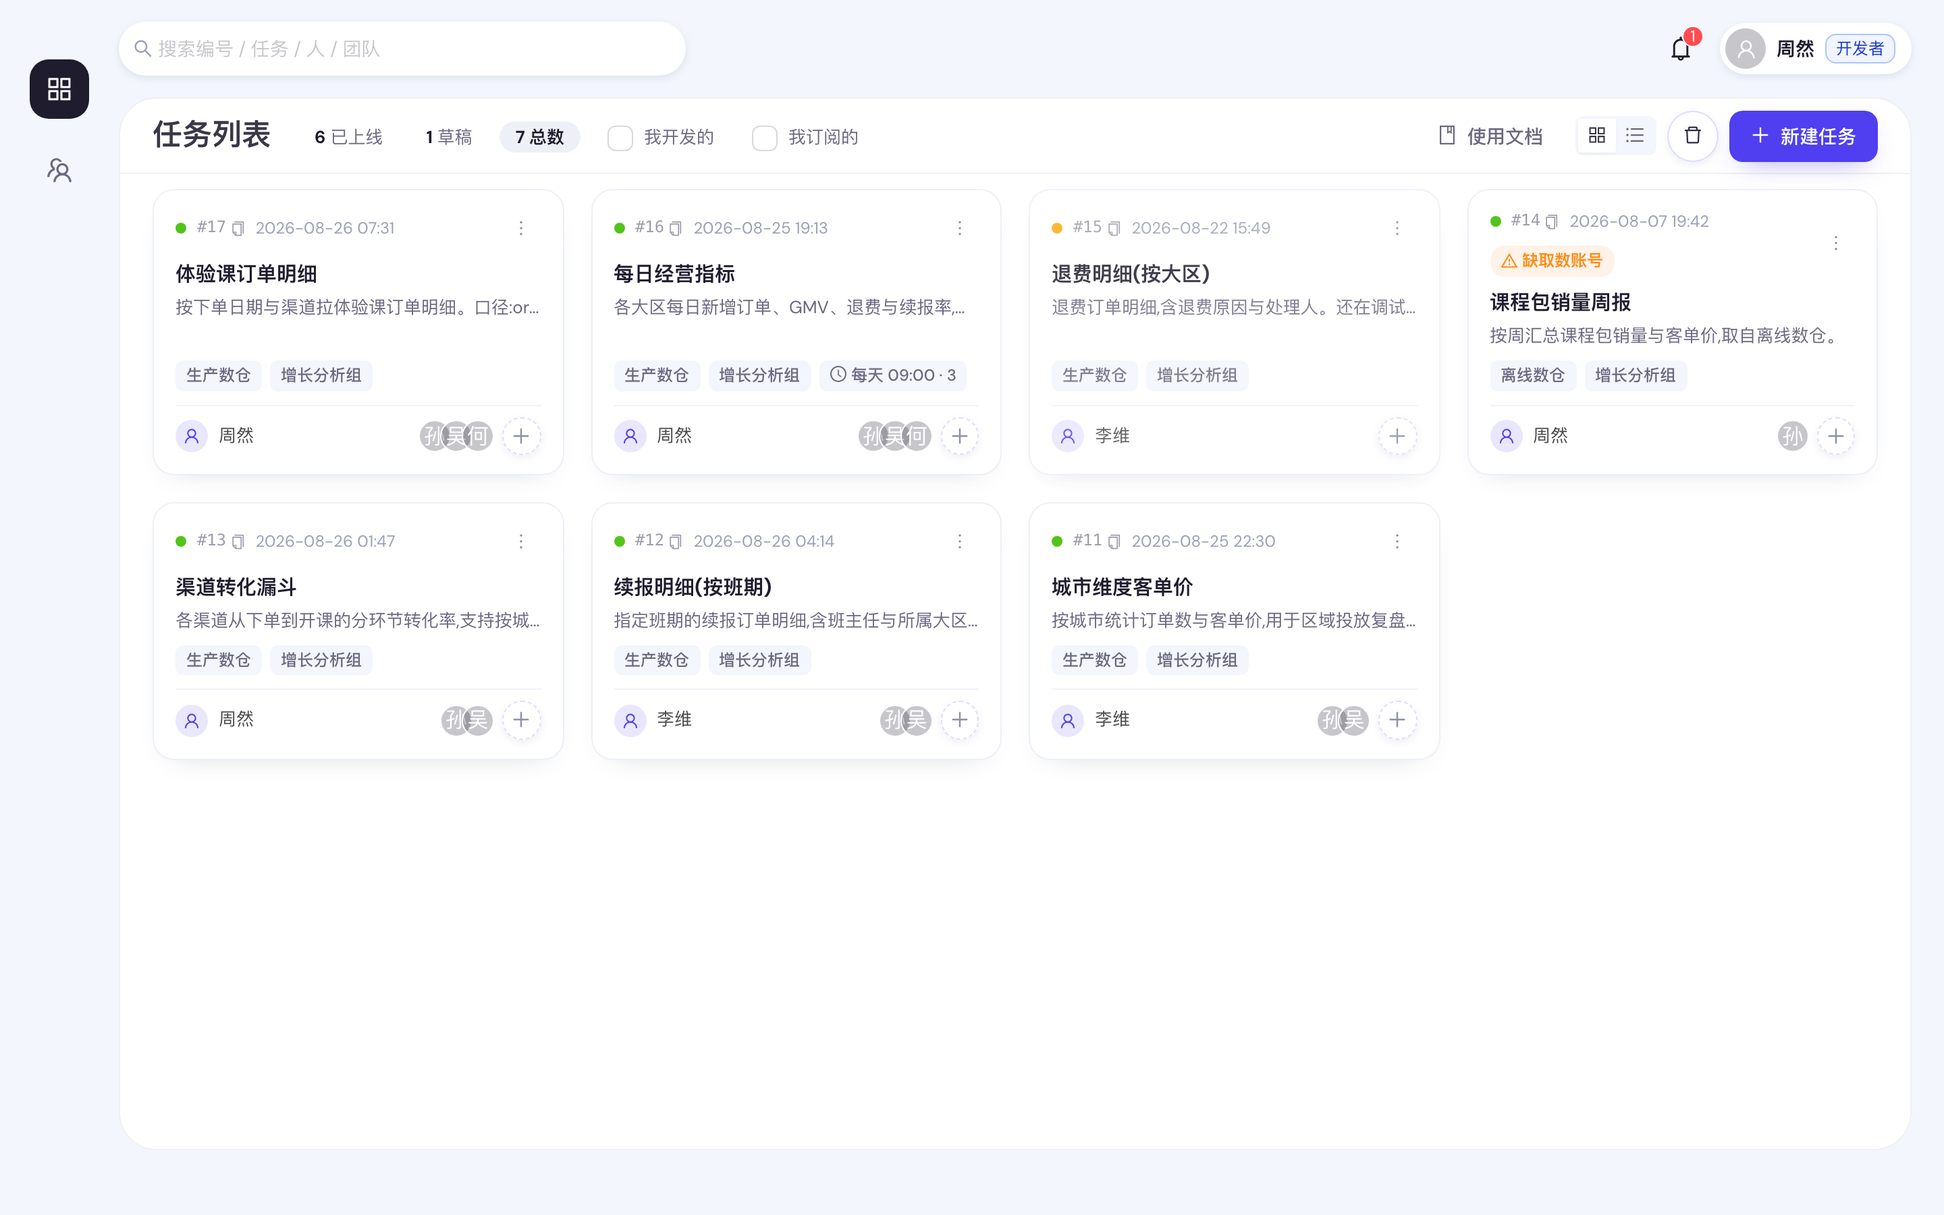
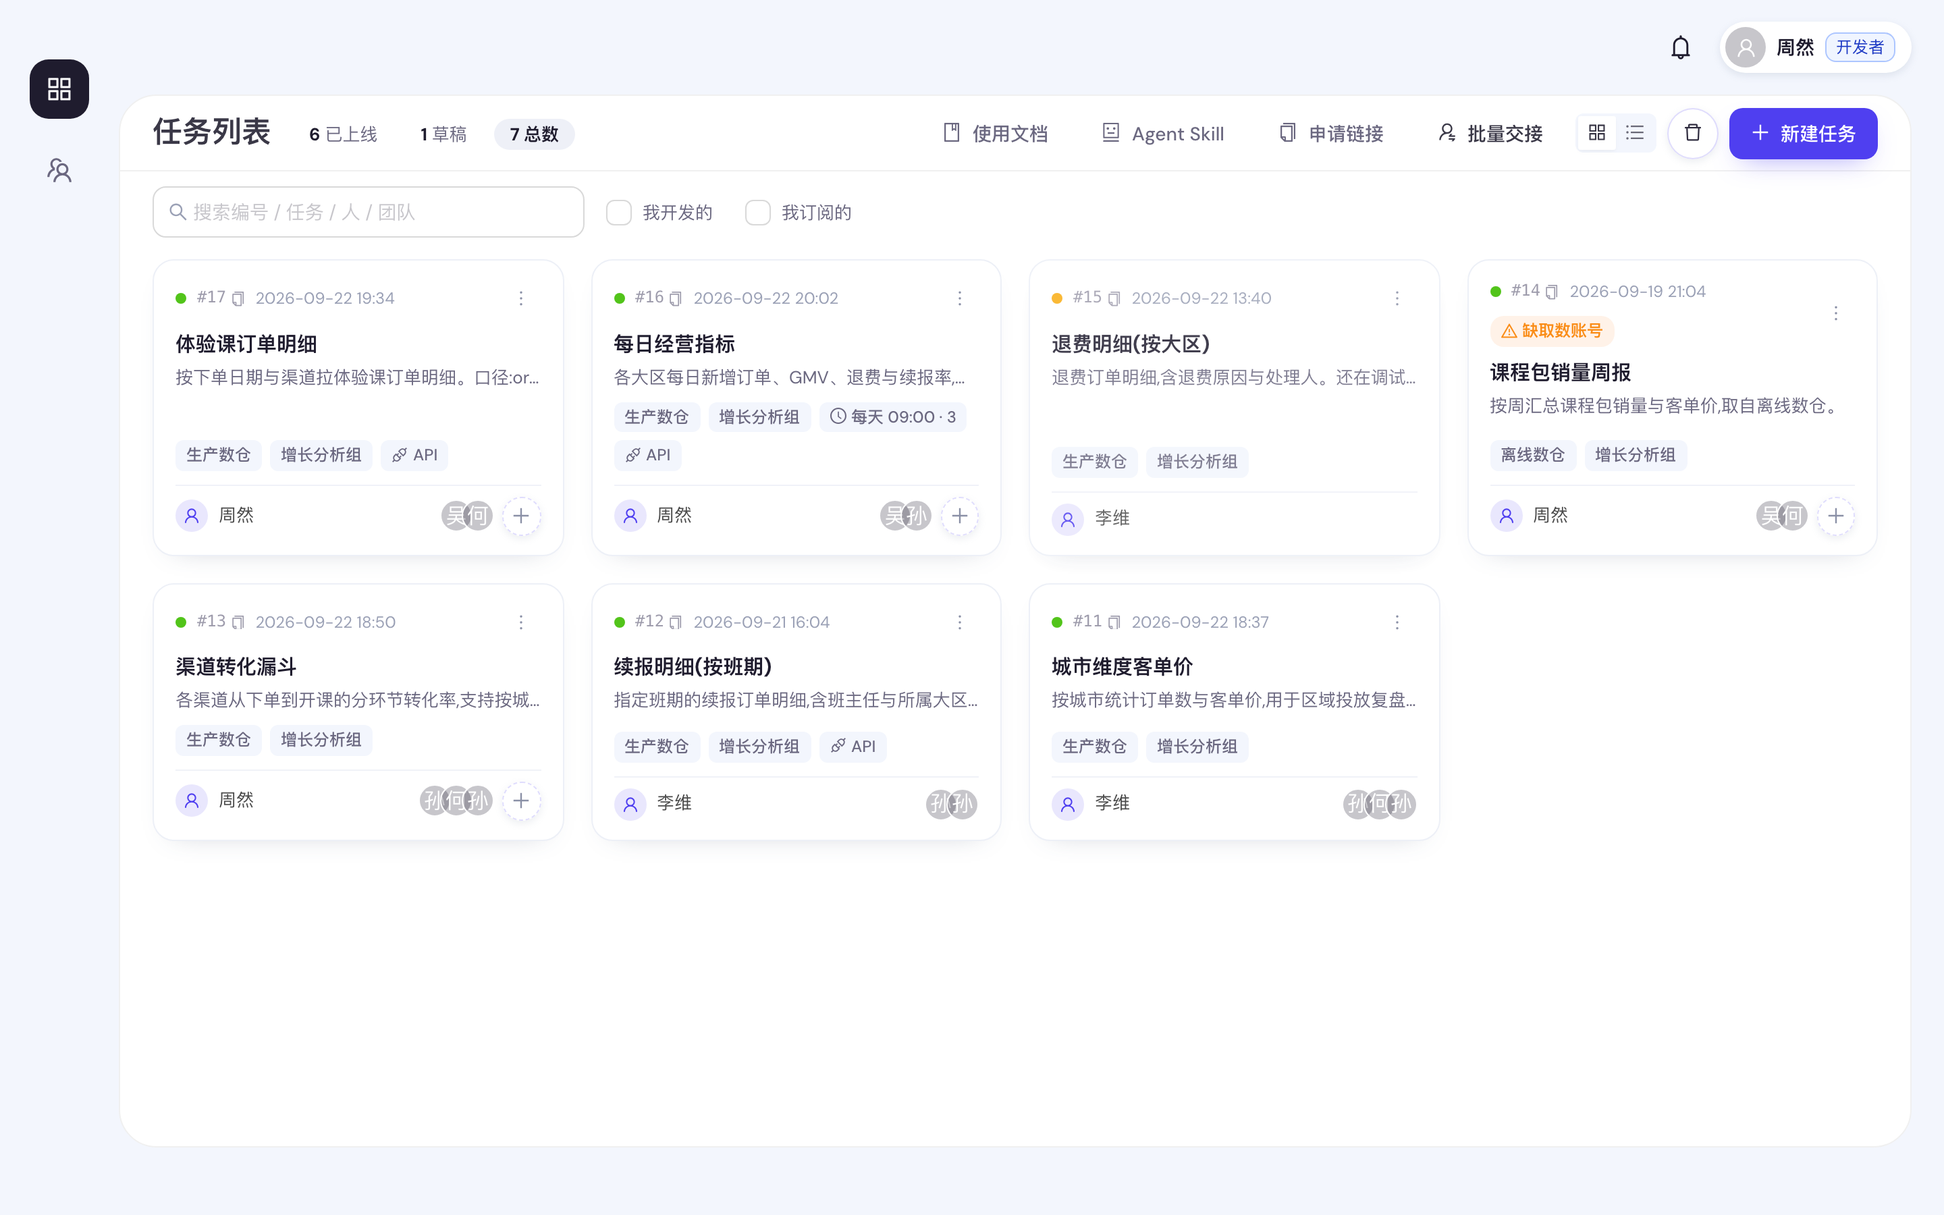
开放 API 上线时三份文档只有两份跟上了:业务方那份补齐,顺带校准过时的截图
8513ff9 起的开放 API 那一轮,open-api.md 是新写的、开发者手册补了第 11 章,
唯独 user-manual 只加了运营分析表格里的一行 —— 而 Token 入口在头像菜单、
Agent Skill 按钮在任务列表页右上角,这两处**所有角色都看得见**,业务方却无从得知。
新增 2.8「不开网页也能取数」放在第 2 章末尾(普通用户唯一会读的一章),
接口细节仍只指向 open-api.md,不在这里写第四遍。

顺手修掉三处已经说错的话:1.3 的「头像下拉里只有退出登录」(现在多了 API Token);
2.2 把「我订阅的」勾选框归进了开发者/管理员专属,实际所有人都有;
2.4 从没提过「能跑不等于能下载」—— 下载是独立的第三种授权,且 can_download_job
刻意不继承发起人短路,自己跑的数照样可能只看得到前 50 行,业务方一定会撞上。
README 只有两处真漂移(运营分析漏了第 5 块板、审计清单缺 API 动作),其余本就是最新的。

截图重拍 3 张(任务列表那张同时覆盖孪生的 dev-tasks.png)。它们是**真的会误导**:
5b27b24 把搜索框从顶栏下沉进任务列表后,图上还画在顶栏,正好和 2.2 的正文相反;
运营分析的锚点行少了第 5 块。用一次性本地演示实例拍(sqlite + 假连接器 + Playwright,
不连任何真实库),沿用旧图的人设与任务 #11-#17,与手册里其余截图衔接。

不动的:manual-task-editor.png 只拍了弹窗顶部的基本信息 + SQL 两段,这两段没变,
新增的「开放 API」分区本来就在画面外 —— 图不全但不错,重拍成底部反而丢掉两篇手册
都在引用的顶部视图。另约 31 张图的角落里还留着那个已下沉的搜索框,正文内容都对,
按只重拍「真会误导」那一档的口径这轮不动。

飞书版两篇已整篇重推并回读校对(推之前确认过两篇评论数都是 0,overwrite 不毁东西)。

diff --git a/docs/user-manual.md b/docs/user-manual.md
@@ -4,7 +4,7 @@
 
 **一句话**：懂 SQL 的同学把一段查询建成「任务」并上线，其他人填几个参数就能自己取数、下载，不用找人代跑。
 
-> 本手册对应 2026-09-16 的线上功能。界面与手册不一致时**以界面为准**，并告诉平台管理员。
+> 本手册对应 2026-09-22 的线上功能。界面与手册不一致时**以界面为准**，并告诉平台管理员。
 > 文中的任务名、人名、日期都是虚构的演示数据。
 
 ## 目录
@@ -50,7 +50,7 @@
 | 运营分析 | 平台被用得怎么样：采纳、运行健康、资产、权限治理 | 管理员 / 团队管理员 |
 | 用户管理 / 团队管理 / 数据源 / 取数账号 / 审计 | 见第 4 章 | 仅管理员 |
 
-顶栏只有两样东西：**通知铃**和**头像**（下拉里只有退出登录）。
+顶栏只有两样东西：**通知铃**和**头像**（下拉两项：**API Token**、退出登录。Token 是给脚本和 AI Agent 用的，见 [2.8](#28-不开网页也能取数api-token-与-agent-skill)）。
 
 搜索任务的框在**任务列表页里面**（见 2.2），不在顶栏——它只过滤任务列表，放在顶栏会让人以为在别的页面上也能用。
 
@@ -71,17 +71,20 @@
 
 ### 2.2 任务列表怎么看
 
-![任务列表：状态筛选片、视图切换、任务卡片网格](assets/manual-tasks.png)
+![任务列表：状态筛选片、右上角工具栏（使用文档 / Agent Skill / 申请链接 / 批量交接）、页内搜索与筛选、任务卡片网格](assets/manual-tasks.png)
 
 - **标题右侧的小片**是状态筛选：已上线 / 草稿 / 总数，点一下只看该状态，再点取消。
 - **小片下面那一排是搜索和筛选**：最左边的**搜索框**按任务编号、任务名、作者、团队、被授权人搜；右边跟着团队下拉和「我开发的 / 我订阅的」。搜索词和筛选都会写进网址，可以直接把链接发给同事，他打开就是你看到的这一屏。
 - **卡片本体点一下就是取数**。点不动时把鼠标停上去，提示会说明原因：没上线，还是你只有查看权限。
 - **卡片上有什么**：状态色点（黄=草稿、绿=已上线、红=已下线）、**任务编号**（形如 `#128`，点一下复制）、任务名与说明、数据源与团队标签、作者、被授权人的头像组。右上 **⋮** 里是运行记录、订阅等操作。
+  下排的小标签里，带时钟的是定时运行的计划（订阅过就变成品牌色），带 **API** 字样的表示这个任务允许被开放 API 触发（见 [2.8](#28-不开网页也能取数api-token-与-agent-skill)）。
 - **任务编号**：每个任务有一个唯一编号，建好就不变，改名也不变。点编号即复制**纯数字**（`128`），粘到任务列表的搜索框就能直接定位这个任务——找同事问某个任务时，报编号比报名字准（任务是可以重名的）。列表视图第一列就是它，点列头可按编号排序。
   搜 `128` 会把**编号是 128 的那个任务**和**名字里带 128 的任务**一起列出来（编号命中的排在最前）；只要编号那一条，就写成 `#128`。
 - **⊞ / ☰ 两个按钮**切卡片和列表视图。任务多的时候列表一屏能看几十行，选了哪种会记在你这台电脑上。两种视图看的是同一批任务，筛选和搜索都照样生效。
+- **右上角那一排**：**使用文档**（就是这份手册，新标签页打开）和 **Agent Skill**（拿一句话交给自己的 AI Agent，让它替你取数，见 [2.8](#28-不开网页也能取数api-token-与-agent-skill)）人人都有。
+- **「我订阅的」勾选框**只留下你订阅过的任务，所有人都能用。
 
-开发者和管理员还会多看到一些东西：**新建任务**按钮、回收站、团队下拉、「我开发的 / 我订阅的」勾选框，以及橙色的「缺取数账号」告警。普通用户没有这些。
+开发者和管理员还会多看到一些东西：**新建任务**按钮、回收站、团队下拉、「我开发的」勾选框、标题栏的「闲置」筛选片、橙色的「缺取数账号」告警，以及一枚**申请链接**按钮（复制一整句发给还没有飞书应用权限、卡在登录页外面的同事）。普通用户没有这些。
 
 ### 2.3 填参数
 
@@ -114,6 +117,8 @@
 - 预览只给**前 50 行**，下载的是完整结果。
 - 点 **查看执行SQL** 看参数代入后的真实语句。
 - 点 **确认下载** 拿 CSV；点 **重新运行** 换参数再跑，表单还在。
+
+**能跑不等于能下载**。「运行」和「下载」是两项分开授权的权限：只给了你「运行」，你跑得动、看得到前 50 行预览，但点下载会被挡住——**哪怕这份数是你自己跑出来的**。这不是故障，是平台的口径。要完整 CSV 就找任务作者补一个「下载」。
 
 **结果文件**是 CSV（带 UTF-8 BOM，Excel 双击打开中文不乱码），文件名形如 `任务名_运行编号.csv`。
 
@@ -162,6 +167,32 @@
 - **任务负责人也能把你移出名单**，你会收到一条「订阅已取消」。这只停推送、不收回查看权限，你随时能自己订回来。
 - **任务下线＝推送暂停**，订阅关系还在，重新上线自动恢复，不用重订。
 - **最新一期的结果不会过期**，一直留到下一期成功把它换掉为止。
+
+### 2.8 不开网页也能取数：API Token 与 Agent Skill
+
+取数结果不只能从网页上拿。生成一枚 **API Token**，你的脚本、本地应用或 AI Agent 就能自己列任务、填参触发、等结果、下载 CSV，不必再打开浏览器。
+
+**最省事的路子：让 AI Agent 自己装**
+
+任务列表页右上角点 **Agent Skill**，弹窗里给你一句现成的话，复制了粘给自己的 AI Agent 就行——它会照着地址把技能文件下载下来装好，之后你直接用大白话吩咐它取数即可。
+
+弹窗里还能把 **Token 一并附进这句话**，Agent 装完就能干活，不用你再单独去找凭证：
+
+- 还没有 Token 的，点一下当场生成并附上。
+- **已经有 Token 的，附带就意味着重置**——平台只存 Token 的哈希、不留明文，已经发出去的那枚谁也取不回来，所以只能换一枚新的，**旧的当场失效**（原来在用它的脚本要换成新的）。
+- 这句话里带着你的身份，**只发给你自己信任的 Agent**，别贴进群聊、工单或截图。
+
+**自己要 Token：**右上角头像 → **API Token**。没生成过就点「生成 Token」；**明文只显示这一次**，关掉弹窗就再也看不到，请当场存进密码管理器或环境变量。已经有了的话，这里能看到签发时间和最近一次使用时间，也能**重置**（换新的、旧的立即失效）或**吊销**（直接停用）。怀疑泄漏了就立刻来这里吊销。
+
+**几条要知道的规矩**
+
+- **Token 就是你本人**。API 下能看见、能运行、能下载的东西，跟你在网页上一模一样，**不多给一分权限**。授权还是得由任务作者在网页上给。
+- **任务侧另有一道「允许 API 调用」的闸**。它**不授予任何人权限**，只决定这个任务允不允许走 API。新任务默认是开的，作者可以随时关掉；关掉之后谁都不能用 API 触发它（网页上照常运行，不受影响）。卡片上带 **API** 小标签的就是开着的。
+- **下载还是要「下载」授权**，和 [2.4](#24-运行预览下载) 是同一条口径——API 也绕不过去。
+- API 跑出来的运行**照样出现在运行记录里**，类型标着 API，跟你在网页上跑的分得清清楚楚。
+- 请求频率有上限（每枚 Token 每分钟 120 次），正常轮询远达不到。
+
+接口的逐字段说明、错误码和完整示例在[开放 API 文档](./open-api.md)里，给 Agent 用的话不必自己读——它装完技能就知道怎么调。
 
 ---
 
@@ -226,6 +257,18 @@ flowchart TD
 ![变量配置：每个变量一张折叠卡](assets/manual-task-editor-params.png)
 
 > **配了枚举值获取 SQL 就记得点一次「测试」再保存。** 测出来的那批值会直接成为业务侧的共享候选，业务方打开抽屉就能勾。测完又改了 SQL 再保存，那批值会被丢弃——值和 SQL 必须对得上。
+
+**第四段·订阅与定时运行**
+
+打开「允许订阅」，平台就按你设的计划自动跑、把结果推给订阅者。只有没有变量的任务能开，细节见 [3.6](#36-开启定时运行)。
+
+**第五段·开放 API**
+
+一个 **允许 API 调用** 开关：开着的时候，持有 API Token 的人可以通过开放 API 触发这个任务运行。
+
+- **新建的任务默认就是开的**，你可以随时关掉。
+- 它**不授予任何人任何权限**，只是一道运行闸——谁能看、能跑、能下载，仍然由你在授权弹窗里决定，和网页上完全一致。关掉它只是让这个任务不接受 API 触发，网页上照常运行。
+- 开着时业务方的卡片上会多一枚 **API** 小标签。业务侧怎么用见 [2.8](#28-不开网页也能取数api-token-与-agent-skill)。
 
 **底部四个按钮**
 
@@ -437,6 +480,8 @@ flowchart TD
 | 下载链接有效期 | 1 小时 | 过期重新点一次 |
 | 页面等待结果 | 20 分钟 | 超时后改由通知 + 运行记录领取 |
 | 登录有效期 | 12 小时 | 过期自动跳回登录页 |
+| API Token | 每人一枚 | 明文只在生成时显示一次；重置即换新、旧的立即失效；可随时吊销 |
+| 开放 API 限流 | 120 次 / 分钟 / Token | 超了返回 429，退避重试即可；正常轮询远达不到 |
 | 运营分析默认区间 | 近 30 天 | 可切 7 / 90 天、本月或自定义；带「此刻」标记的指标不受它影响 |
 | 运营分析可见范围 | 管理员看全平台、团队管理员看本团队 | 团队管理员看不到平台级内容（角色分布、跨团队对比、审计流水） |
 | 订阅计划粒度 | 每天 / 每周 / 每月 + `HH:MM` | 服务器本地时间；每月 29/30/31 遇小月顺延到当月最后一天 |
@@ -480,6 +525,9 @@ flowchart TD
 找该任务**所属团队**的团队管理员（团队名就在卡片的标签上），或者平台管理员。
 作者是可以交接的：离职前本人转，忘了转的由团队管理员补转，卡片上的作者随即变成接手人。
 
+**跑出来了，却下载不了？**
+「运行」和「下载」是分开授的两项权限，你多半只有前一项——**自己跑出来的数也一样**，这是平台的口径不是故障。找任务作者（卡片左下角）给你补一个「下载」。在那之前预览的前 50 行照样能看。
+
 **以前的结果提示已过期？**
 结果只留 7 天。重跑一次即可，参数可以在运行记录的 **查看(N)** 里照抄。
 
@@ -506,6 +554,12 @@ flowchart TD
 
 **我没订过，怎么收到订阅通知了？**
 任务负责人替你订的，通知里写了是谁。不想要就在任务卡片 **⋮ → 退订**，跟自己订的一样。
+
+**我的 AI Agent 说这个任务不让调用？**
+任务作者把「允许 API 调用」关掉了。找他打开即可——这个开关只管「允不允许走 API」，不涉及给你放权。你在网页上照样能跑这个任务。
+
+**Agent 说没权限 / 取不到数？**
+先确认两件事：Token 还在不在（头像 → **API Token** 看得到签发时间，重置过的话旧的已经失效，得把新的配给 Agent），以及你在网页上本来就有这个任务的权限——**API 不会多给你一分权限**，网页上跑不了的，Agent 也跑不了。
 
 **页面突然跳回登录页？**
 登录态 12 小时过期，重新点飞书登录。未提交的表单会丢。
@@ -582,6 +636,9 @@ flowchart TD
 | 任务编辑权 | 团队管理员按任务授予成员的编辑许可，与业务侧的查看/运行/下载是两回事 |
 | 数据源 | 一个可被查询的数据库连接（MySQL / Hive），由管理员配置 |
 | 订阅 / 定时运行 | 让平台按计划把结果定期推给你 / 平台按计划自动发起的取数 |
+| API Token | 头像菜单里生成的一枚凭证（`rk_` 开头），让脚本或 AI Agent 以你的身份取数。每人一枚，明文只显示一次 |
+| 允许 API 调用 | 任务上的一道运行闸，决定这个任务允不允许被开放 API 触发。**不授予任何人权限**，新任务默认开 |
+| Agent Skill | 任务列表页右上角那个按钮给出的一句安装指令，粘给 AI Agent 即可让它学会用本平台取数 |
 | 审计 | 全平台操作留痕，仅管理员可查 |
 
 **有问题找谁**：功能问题、权限申请、口径疑问，找对应任务的**作者**（卡片左下角显示）或平台管理员。

diff --git a/README.md b/README.md
@@ -47,7 +47,8 @@
 
 **运营分析** —— 平台被用得怎么样,一页看完:采纳与活跃(取数量、活跃人数、业务自助率、复用倍数)、
 运行健康(按来源分开的成功率、失败归因分桶、执行耗时与**排队等待**分位数)、任务资产(闲置、从未被运行、
-头部与长尾)、权限与配置(**授权了却从没跑过**的空转授权、失效的编辑权、缺账号的已上线任务)。
+头部与长尾)、权限与配置(**授权了却从没跑过**的空转授权、失效的编辑权、缺账号的已上线任务)、
+开放 API(界面之外还有没有人在取数:调用量与占比、发出去的 Token 还有几枚在用、被调用最多的任务)。
 **团队管理员也进得来**,但只看得到自己那个团队 —— 页头常驻一条数据范围说明,平台级内容整块不下发;
 平台管理员可以下拉切到任意团队下钻。数字上带「此刻」标记的不吃时间范围,灰色 `—` 是「还没有数据」、
 实打实的 `0` 才是「跑了很多次一次没出问题」。能点的数字都能下钻到任务列表 / 取数账号 / 审计。
@@ -56,7 +57,7 @@
 
 **审计日志** —— 登录、提交/运行/失败取数(含**用了哪个团队的库账号**)、下载、任务增改与上下线、
 枚举候选值更新、授权变更、任务编辑权变更、任务转移团队、任务转移作者、团队与成员变更、角色变更、数据源增改删、
-团队取数账号增改删全部留痕,
+团队取数账号增改删、API Token 签发/重置/吊销与**被运行闸拒绝的 API 调用**全部留痕,
 可按动作 / 资源 / 操作人 / 时间检索并导出 CSV(导出本身也留痕)。
 
 ![审计日志](docs/assets/manual-audit.png)

diff --git a/docs/developer-manual.md b/docs/developer-manual.md
@@ -5,7 +5,7 @@
 > 本手册写给平台里的**「开发者」角色**——把一段 SQL 做成任务、交给业务同学自助取数的人。
 > 第 8 章是**业务同学那侧的界面速览**（答疑用）；完整的业务操作说明见[用户使用说明手册](./user-manual.md)，
 > 部署与运维请看 [README](../README.md)。
-> 对应 2026-09-16 的线上功能（含团队、团队取数账号、跨团队隔离、任务编号与按编号搜索）。界面与手册不一致时**以系统实际显示为准**，并把差异反馈给平台管理员。
+> 对应 2026-09-22 的线上功能（含团队、团队取数账号、跨团队隔离、任务编号与按编号搜索、开放 API 与 Agent Skill）。界面与手册不一致时**以系统实际显示为准**，并把差异反馈给平台管理员。
 > 文中所有示例（任务名、大区、日期、人名）均为演示用的虚构值，截图取自本地演示实例。
 
 ## 目录
@@ -197,7 +197,7 @@
 
 ## 2. 五分钟建成第一个任务
 
-![任务列表（开发者视角）：状态筛选片、我开发的 / 我订阅的、回收站与新建任务按钮](assets/dev-tasks.png)
+![任务列表（开发者视角）：状态筛选片、我开发的 / 我订阅的、右上角工具栏与新建任务按钮](assets/dev-tasks.png)
 
 1. **点右上「新建任务」**，填任务名称、选**所属团队**、选数据源（数据源决定 SQL 方言与默认超时）。
    选完团队与数据源，下方会当场告诉你这个组合的团队账号就绪没——不必等到点上线才发现。
